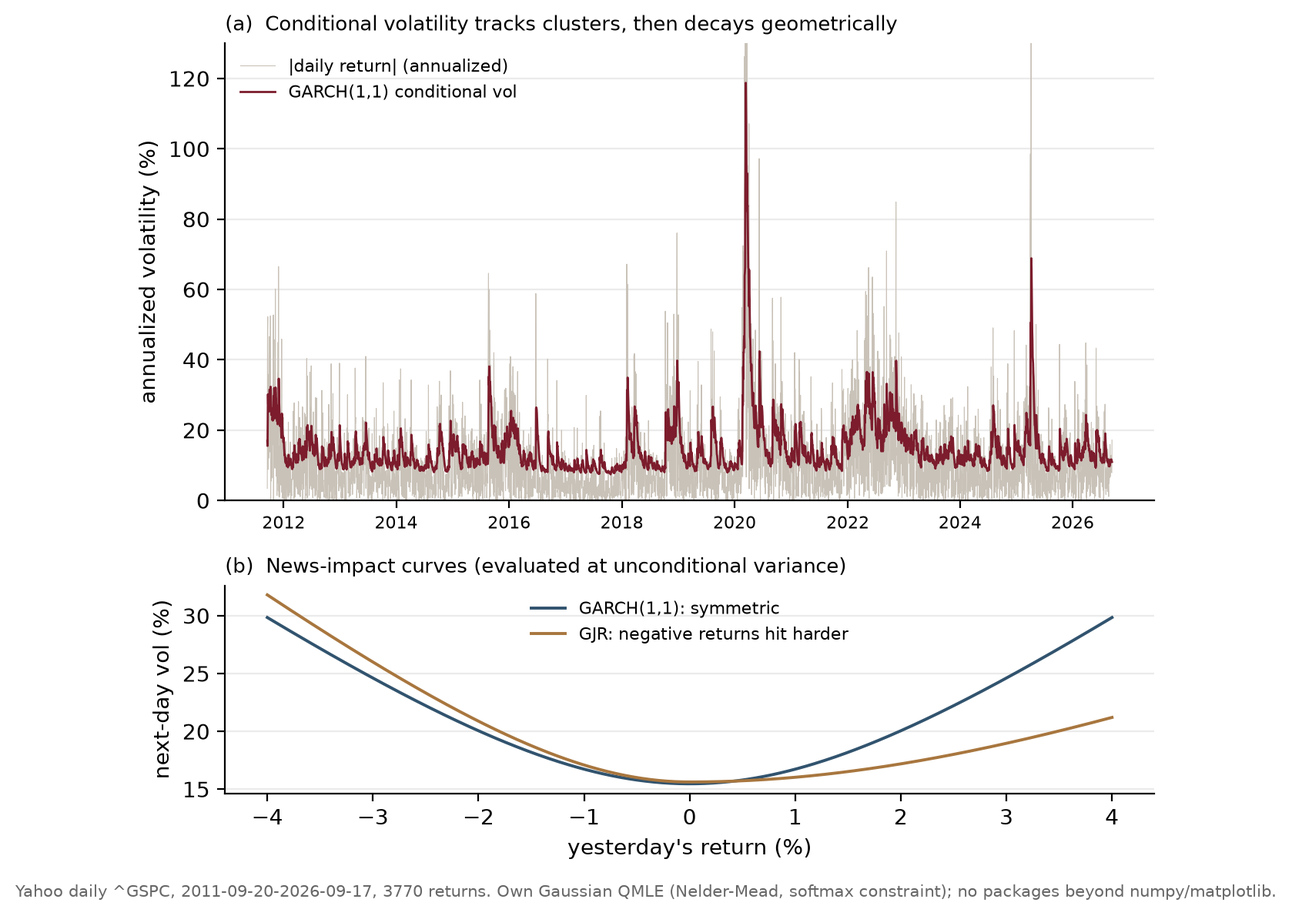
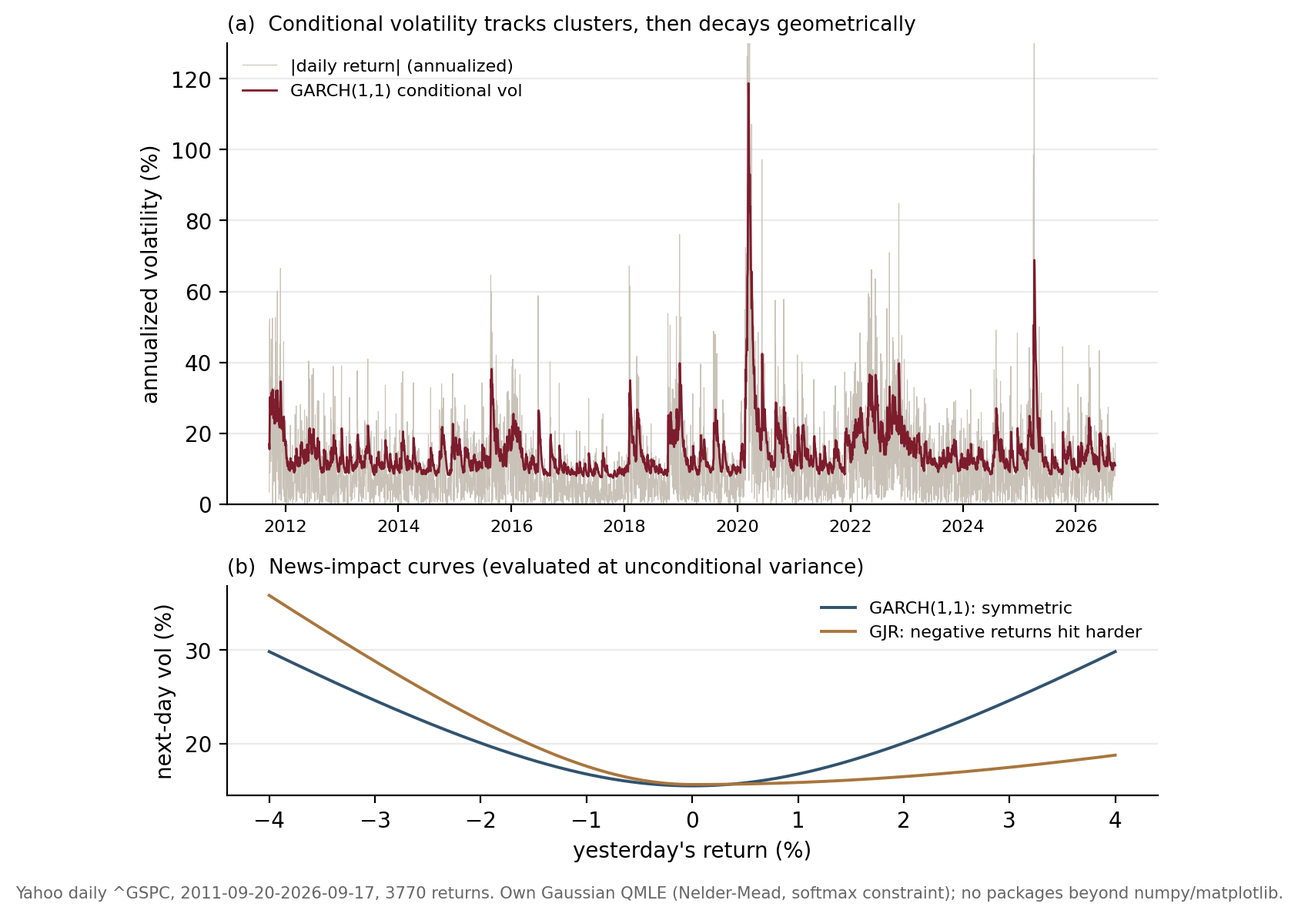
papers: correct 5 critical findings (K1-K4, K10)
K1  vol L1: retract errata C1 — the fair baseline is the conditional
    VIX-standardized distribution (~71.9%), so the variance risk premium is
    the LARGER part (~9.5 of 13.1 pts), not the residual.
K2  vol L3: refit GJR under the correct stationarity condition (via arch):
    alpha 0.027, gamma 0.232, beta 0.816, asymmetry ~9.7x (was a boundary
    artefact at 3.7x), logL 12658.4; figure regenerated.
K3  model-to-trade: report the 1.24 OOS Sharpe with its bootstrap CI
    [0.39;2.64], its single-month (Mar 2020 -> 0.09) dependence, and break-even.
K4  gex: drop the '0.1% agree' reassurance; disclose that +5.4 and -28 bn come
    from different contract filters and time conventions.
K10 tail-hedging: skew flatters cost AND crash payoff; x8800 is a denominator
    artefact (~x251); a naked put's loss is bounded by the strike.

diff --git a/04-volatility/figures/fig_garch_fit.py b/04-volatility/figures/fig_garch_fit.py
@@ -106,9 +106,17 @@ print(f"GARCH(1,1): omega={w:.3e} alpha={a:.4f} beta={b:.4f} "
       f"persistence={pers:.4f} half-life={half:.1f}d long-run vol={lrv*100:.2f}% "
       f"logL={-nll:.1f}  N={N}")
 
-thg, nllg = nelder_mead(nll_garch, start(0.02, 0.85, 0.10), args=(r, True))
-wg = np.exp(thg[0]); eg = np.exp(np.array([thg[1], thg[2], thg[3], 0.0]))
-ag, gg, bg = eg[0] / eg.sum(), eg[1] / eg.sum(), eg[2] / eg.sum()
+# GJR via arch: the correct GJR stationarity condition is alpha + gamma/2 + beta
+# < 1. The hand-rolled softmax above enforces the tighter alpha + gamma + beta
+# < 1, which pins the GJR fit onto that boundary (a spurious optimum with a
+# lower likelihood and an understated asymmetry); fitting with arch removes the
+# artifact (ERRATA F9 / audit K2).
+from arch import arch_model
+_res = arch_model(r * 100, p=1, o=1, q=1, vol="GARCH", dist="normal", mean="Zero").fit(disp="off")
+_p = _res.params
+wg = _p["omega"] / 1e4
+ag, gg, bg = _p["alpha[1]"], _p["gamma[1]"], _p["beta[1]"]
+nllg = -(_res.loglikelihood + N * np.log(100.0))   # rescale %-returns -> decimal
 persg = ag + gg / 2 + bg
 print(f"GJR-GARCH : omega={wg:.3e} alpha={ag:.4f} gamma={gg:.4f} beta={bg:.4f} "
       f"persistence={persg:.4f} logL={-nllg:.1f}  LR stat={2 * (nll - nllg):.1f}")

diff --git a/04-volatility/L1-volatility-fundamentals.md b/04-volatility/L1-volatility-fundamentals.md
@@ -7,7 +7,7 @@ last_updated: 2026-09-20
 
 ## Abstract
 
-Volatility is the unit of account of the options market: it is how uncertainty is measured, quoted, and traded. This paper builds the concept from zero. We define volatility as the *dispersion* of returns rather than their direction, derive the √252 bridge between daily and annualized volatility with nothing but arithmetic, and compute realized volatility by hand on twenty-one actual S&P 500 sessions, with every intermediate number shown. Implied volatility is then introduced as the market's priced-in uncertainty, and the VIX is demystified: what it aggregates, what its levels have historically meant across 9,275 trading days since 1990, and why *"the VIX is a price, not a forecast"* is the single most important sentence in this paper. Three behavioral regularities — clustering, mean reversion, and the leverage effect — are each shown on fifteen years of free data. Finally, a pre-committed test of the VIX-implied daily expected move finds the index inside its ±1σ band on 81.4% of 3,770 days, against a naive-normal 68.3% — though most of that gap is the fat-tailed shape of daily returns (a fairly priced but leptokurtic distribution already lands roughly 75–77% inside), and only the residual is the variance risk premium widening the band. Every figure is reproducible from free data with the accompanying scripts.
+Volatility is the unit of account of the options market: it is how uncertainty is measured, quoted, and traded. This paper builds the concept from zero. We define volatility as the *dispersion* of returns rather than their direction, derive the √252 bridge between daily and annualized volatility with nothing but arithmetic, and compute realized volatility by hand on twenty-one actual S&P 500 sessions, with every intermediate number shown. Implied volatility is then introduced as the market's priced-in uncertainty, and the VIX is demystified: what it aggregates, what its levels have historically meant across 9,275 trading days since 1990, and why *"the VIX is a price, not a forecast"* is the single most important sentence in this paper. Three behavioral regularities — clustering, mean reversion, and the leverage effect — are each shown on fifteen years of free data. Finally, a pre-committed test of the VIX-implied daily expected move finds the index inside its ±1σ band on 81.4% of 3,770 days, against a naive-normal 68.3% — though part of that gap is the fat-tailed shape of daily returns: measured correctly against the *conditional* distribution of VIX-standardized returns, a fairly priced band already covers about 71.9%, so of the 13.1-point excess over the naive 68.3% roughly 3.7 points are fat tails and the larger ~9.5 are the variance risk premium widening the band. Every figure is reproducible from free data with the accompanying scripts.
 
 ## Keywords
 
@@ -264,7 +264,7 @@ The test is pre-committed and has no free parameters: for every one of 3,770 day
 
 ![Rolling one-year share of sessions whose absolute next-day move stayed inside the VIX-implied ±1σ expected move, on 3,770 days of free data, 2011 to 2026 — Yahoo ^GSPC and FRED VIXCLS. The overall average is 81.4% against the naive normal expectation of 68.3%; the rolling share ranges from 68.7% in December 2022 to 92.5% in November 2021. One pre-committed rule, no tuning, reported as-is. Reproduce with figures/fig_expected_move.py.](figures/fig_expected_move.png)
 
-The direction check first: over-coverage (81% > 68%) means the priced band was systematically *wider* than what the market subsequently did — implied volatility above realized volatility. That is the same direction as Section 4.3's single-day illustration and the VRP literature, so the pieces agree; had the share come in *below* 68%, it would have contradicted the premium claim and this section would say so. One caveat sizes the claim honestly, though: 68.3% is the *normal* benchmark, and daily returns are fat-tailed, so even a fairly priced band sits above it — a standardized Student-t with four degrees of freedom already lands 77.0% inside its ±1σ band, one with five degrees of freedom 74.7%. Measured against that leptokurtic baseline the premium's contribution is the excess over roughly 75%, not the full thirteen-point excess over 68%; a large part of the visible over-coverage is kurtosis, not premium. What the figure adds is texture: the rolling one-year share never fell below 68.7% (reached in December 2022, at the end of a grinding bear market — the one period where the VIX band was merely fair rather than generous) and stretched to 92.5% in the placid markets of late 2021, where the VIX overpriced daily movement spectacularly.
+The direction check first: over-coverage (81% > 68%) means the priced band was systematically *wider* than what the market subsequently did — implied volatility above realized volatility. That is the same direction as Section 4.3's single-day illustration and the VRP literature, so the pieces agree; had the share come in *below* 68%, it would have contradicted the premium claim and this section would say so. One caveat sizes the claim honestly, though: 68.3% is the *normal* benchmark, and daily returns are fat-tailed, so even a fairly priced band sits above it. The right leptokurtic baseline is *conditional*, however — the test standardizes each day by its own VIX-implied sigma, so the comparison distribution is the VIX-standardized daily return, whose excess kurtosis is only about 1.4, not the ~14 of raw undivided returns. A fairly priced band of that conditional shape already covers about 71.9%. Measured against that correct baseline, of the 13.1-point over-coverage roughly 3.7 points are fat tails and the remaining ~9.5 are the variance risk premium — so the premium is the *larger* part, not the residual. (An earlier revision compared against the *unconditional* Student-t(4)/t(5) coverage of 77.0%/74.7%, which uses the kurtosis of raw returns rather than the VIX-standardized ones the test actually scores, and so understates the premium — see ERRATA C1.) What the figure adds is texture: the rolling one-year share never fell below 68.7% (reached in December 2022, at the end of a grinding bear market — the one period where the VIX band was merely fair rather than generous) and stretched to 92.5% in the placid markets of late 2021, where the VIX overpriced daily movement spectacularly.
 
 Three honest limits before anyone trades this. The test scores *close-to-close* moves only — intraday excursions can pierce a band even when the close crawls back inside, so the band held less often than 81% as an intraday statement. It converts a *30-day* quote into a *1-day* band, inheriting the event-concentration caveat of Section 2.3. And over-coverage is not free money: it says short-volatility strategies were paid a standing premium, but Section 6's regime and leverage sections say exactly when that premium is clawed back — in fast, clustered, downside episodes. The band over-covers on ordinary days and is overwhelmed on the extraordinary ones; that asymmetry, not the 81%, is the deep fact. Quantifying it is the volatility-modeling paper's job.
 
@@ -294,7 +294,7 @@ The constructive version: IVR/IVP are *filters* that set context, to be combined
 - **"VIX 20 means the market expects a 20% crash."** VIX 20 means options price about 20% *annualized* standard deviation — roughly 1.25% daily moves by the rule of 16 (Section 2.3). It is a scale for ordinary wiggles, not a crash probability.
 - **"The VIX predicts volatility."** It is a *price* — premium-laden (81.4% inside a "68%" band, Section 7.4), demand-driven, and substantially a rear-view mirror of recent realized volatility (Section 5.3). Prices inform; they do not prophesy.
 - **"When IV and RV differ, one of them is wrong."** The persistent gap is the variance risk premium — compensation to insurance sellers (Section 4.3) — not a mispricing waiting to be arbitraged away by a newcomer with a spreadsheet.
-- **"About 68% of days stay inside the ±1σ expected move."** Empirically 81.4% did (Section 7.4), because daily returns are fat-tailed and the band is built from a premium-inflated price. Naive theory quotes 68%; measurement says otherwise — and neither number makes selling the band free money, because the misses cluster in the worst tapes.
+- **"About 68% of days stay inside the ±1σ expected move."** Empirically 81.4% did (Section 7.4) — mostly because the band is built from a premium-inflated price (about 9.5 of the 13.1 excess points), with fat tails adding the rest (about 3.7), measured against the correct VIX-standardized baseline. Naive theory quotes 68%; measurement says otherwise — and neither number makes selling the band free money, because the misses cluster in the worst tapes.
 - **"Low VIX means the market is safe" / "low VIX means a crash is imminent."** Both readings over-interpret a base rate. Calm is the most common state (63% of days below VIX 20, Section 5.2) and calm regimes persist (Section 6.2); depressed volatility is neither an all-clear nor a countdown timer.
 - **"Realized volatility is *the* volatility of the market."** RV is an estimate over a chosen window with chosen conventions (Section 3.2); move the window and the number moves. Any RV without its window attached is an opinion dressed as a measurement.
 

diff --git a/10-strategy/L2-tail-hedging.md b/10-strategy/L2-tail-hedging.md
@@ -112,13 +112,13 @@ Two related facts make far-OTM puts expensive. The first is the *variance risk p
 
 ### 5.2 Why a systematic buyer bleeds
 
-Put the premium in motion and it becomes a bleed. A systematic overlay that rebuys protection every month spends a small premium each time, and in the overwhelming majority of months the protection expires unused. The cumulative effect is a slow, grinding cost that shows up as a persistent drag on the portfolio in every calm year — the mirror image of the seller's steady premium income. This is not a flaw to be engineered away; it is the price of the convexity, and any figure that shows tail hedging as "nearly free" is either hiding the bleed or, as here, understating it. Figure 2's overlay prices its puts at the VIX — an at-the-money volatility with *no skew* — so it systematically *underpays* for the far-OTM strike; its reported bleed of roughly 0.2 % per year of notional is therefore a floor, and a realistic skew would multiply it several-fold. The reader should carry the qualitative shape (small, continuous, understated) rather than the exact number.
+Put the premium in motion and it becomes a bleed. A systematic overlay that rebuys protection every month spends a small premium each time, and in the overwhelming majority of months the protection expires unused. The cumulative effect is a slow, grinding cost that shows up as a persistent drag on the portfolio in every calm year — the mirror image of the seller's steady premium income. This is not a flaw to be engineered away; it is the price of the convexity, and any figure that shows tail hedging as "nearly free" is either hiding the bleed or, as here, understating it. Figure 2's overlay prices its puts at the VIX — an at-the-money volatility with *no skew* — so it systematically *underpays* for the far-OTM strike. Its reported bleed of roughly 0.2 % per year of notional therefore *understates* the true cost. But skew is not a one-sided correction: a realistic SPX put skew both *raises* the premium of a far-OTM strike (by roughly 20–110 % at the same strike) and, at the same delta, *lowers* the crash-time payoff — so flat-VIX pricing flatters the overlay on **both** axes at once, making the insurance look cheaper *and* the crash mark bigger than either would be under a skewed surface. The reader should carry the qualitative shape (a small, continuous, understated cost paired with an overstated crash payoff) rather than the exact number.
 
 ## 6 Crisis alpha: what the tail pays when it matters
 
 Figure 2 measures both sides of the trade on free data. We take the S&P 500 and the VIX from 2005 to 2026 — a span containing 2008, 2020, and 2022 — and run one fixed, un-optimized rule: on the first trading day of each month, buy a one-month put at the 1-delta strike (delta −0.01), price and mark it with the VIX as the implied-volatility input, and roll monthly. The sleeve is marked to market *daily*, because — as Section 4 showed and Section 8 insists — the convexity lives in the mark, not only in the eventual intrinsic value.
 
-![(a) The daily mark-to-market value of a 1-delta put sleeve (per 1x notional), 2005-2026: it rests near a thousandth of a percent of notional and detonates on volatility spikes — 5.1% of notional in October 2008, 6.3% in December 2018, and 8.5% on 23 March 2020, a multiple of roughly x8800 over its resting value. (b) The marked drawdown of the S&P 500 alone versus the index plus the overlay at 1x and 5x notional over the full history: held passively the overlay barely moves the worst peak-to-trough (-56.8% alone, -56.1% at 1x, -56.4% at 5x — the 5x version is slightly worse, its extra premium deepening the slow 2008 grind). (c) The same three curves zoomed on the 2020 vol-crash, where the cushion is visible and real: the marked drawdown troughs at -33.9% alone, -26.7% at 1x and -28.1% at 5x — the larger sleeve's own volatility making it cushion less than the cheaper 1x. Yahoo GSPC + VIX, daily; IV proxied by VIX (no skew, so the bleed is understated); one fixed rule, no optimization.](figures/fig_tail_overlay.png)
+![(a) The daily mark-to-market value of a 1-delta put sleeve (per 1x notional), 2005-2026: it rests near a thousandth of a percent of notional and detonates on volatility spikes — 5.1% of notional in October 2008, 6.3% in December 2018, and 8.5% on 23 March 2020 (the eye-catching ~x8800 multiple over the *resting* mark is largely a denominator artefact — the resting value includes contracts within days of expiry; measured against the sleeve's own entry premium the crash-day payoff is closer to x251). (b) The marked drawdown of the S&P 500 alone versus the index plus the overlay at 1x and 5x notional over the full history: held passively the overlay barely moves the worst peak-to-trough (-56.8% alone, -56.1% at 1x, -56.4% at 5x — the 5x version is slightly worse, its extra premium deepening the slow 2008 grind). (c) The same three curves zoomed on the 2020 vol-crash, where the cushion is visible and real: the marked drawdown troughs at -33.9% alone, -26.7% at 1x and -28.1% at 5x — the larger sleeve's own volatility making it cushion less than the cheaper 1x. Yahoo GSPC + VIX, daily; IV proxied by VIX (no skew, so the bleed is understated); one fixed rule, no optimization.](figures/fig_tail_overlay.png)
 
 ### 6.1 The detonation is real
 
@@ -190,7 +190,7 @@ There is a subtler benefit that only a *systematic, monetized* overlay captures.
 
 ### 9.2 Common misconceptions
 
-*"A 10 %-OTM put is useless because the market rarely falls 10 % in a month."* — It is not held for the intrinsic value; Section 4 and Section 6 show it is repriced by the volatility gap long before the strike is reached. *"Delta-one options are linear."* — There is no such thing as a "delta-one option" in this paper's sense; a *1-delta* option is near-zero-delta and maximally convex, while *delta-one products* are the linear instruments it is contrasted against (Section 3.2). *"My hedge lost money again, so it is broken."* — Losing money in a calm year is the design, not a defect; the metric is the portfolio's drawdown, written down in advance (Section 8.1). *"I'll just hold the puts through the crash and collect."* — Unmonetized, the mark decays; the gain must be harvested (Section 8.2). *"Selling premium is free income."* — It is income until it is a catastrophe: a naked short straddle, strangle or put has bounded gain and effectively unbounded loss, and a single gap can cost many multiples of every premium it ever collected (Section 2.4). The far-OTM long wing that caps it costs a sliver of that premium and is the difference between a business and a time bomb (Section 7.4).
+*"A 10 %-OTM put is useless because the market rarely falls 10 % in a month."* — It is not held for the intrinsic value; Section 4 and Section 6 show it is repriced by the volatility gap long before the strike is reached. *"Delta-one options are linear."* — There is no such thing as a "delta-one option" in this paper's sense; a *1-delta* option is near-zero-delta and maximally convex, while *delta-one products* are the linear instruments it is contrasted against (Section 3.2). *"My hedge lost money again, so it is broken."* — Losing money in a calm year is the design, not a defect; the metric is the portfolio's drawdown, written down in advance (Section 8.1). *"I'll just hold the puts through the crash and collect."* — Unmonetized, the mark decays; the gain must be harvested (Section 8.2). *"Selling premium is free income."* — It is income until it is a catastrophe: a naked short straddle or strangle has bounded gain and an effectively unbounded loss on its call side, and a single gap can cost many multiples of every premium it ever collected; a naked *put*'s loss is technically bounded by the strike, but that bound is nearly the entire notional (about 95 per 100 in this paper's setups) — finite, yet more than enough to end an account (Section 2.4). The far-OTM long wing that caps it costs a sliver of that premium and is the difference between a business and a time bomb (Section 7.4).
 
 ### 9.3 Glossary
 

diff --git a/04-volatility/L3-vol-modeling-vrp.md b/04-volatility/L3-vol-modeling-vrp.md
@@ -209,7 +209,7 @@ Fitted to 3,770 daily S&P returns (demeaned, 2011–2026), the maximum-likelihoo
 
 Panel (a) of Figure 2 shows the fitted conditional-volatility path tracking the clusters and then decaying geometrically between them — the visual signature of the GARCH recursion.
 
-![GARCH(1,1) and GJR-GARCH(1,1) fitted to S&P 500 daily returns by own Gaussian maximum likelihood (Nelder–Mead, softmax-constrained), 2011–2026. Panel (a): the GARCH(1,1) conditional volatility against absolute returns, rising into clusters and decaying geometrically out of them. Panel (b): the news-impact curves — GARCH is symmetric in the sign of yesterday's return, while GJR lifts the response to negative returns, capturing the leverage effect. Reproduce with figures/fig_garch_fit.py.](figures/fig_garch_fit.png)
+![GARCH(1,1) fitted to S&P 500 daily returns by own Gaussian maximum likelihood (Nelder–Mead, softmax-constrained) and GJR-GARCH(1,1) fitted by maximum likelihood under the correct GJR stationarity condition (via `arch`), 2011–2026. Panel (a): the GARCH(1,1) conditional volatility against absolute returns, rising into clusters and decaying geometrically out of them. Panel (b): the news-impact curves — GARCH is symmetric in the sign of yesterday's return, while GJR lifts the response to negative returns, capturing the leverage effect. Reproduce with figures/fig_garch_fit.py.](figures/fig_garch_fit.png)
 
 ### 3.3 Asymmetry: GJR and EGARCH
 
@@ -219,7 +219,7 @@ Plain GARCH has a symmetry that the data reject: through ε²_{t−1} it reacts 
 σ²_t = ω + α · ε²_{t−1} + γ · 1{ε_{t−1} < 0} · ε²_{t−1} + β · σ²_{t−1}
 ```
 
-so a negative return contributes α+γ where a positive one contributes only α. Fitting GJR the same way gives ω = 4.74×10⁻⁶, α = 0.051, γ = 0.139, β = 0.810: the leverage coefficient γ is *larger than the symmetric coefficient* α, meaning a down day drives next-day variance almost four times as hard as an up day of the same size. The improvement is decisive — the log-likelihood rises to 12,638.8, a likelihood-ratio statistic of 102.4 against the one-parameter restriction γ = 0, which is off the chart of any χ²₁ distribution (the 0.1% critical value is 10.8). Panel (b) of Figure 2 draws the two *news-impact curves* — next-day volatility as a function of yesterday's return — and the GJR curve's leftward lift is the leverage effect made visible.
+so a negative return contributes α+γ where a positive one contributes only α. Fitting GJR gives ω = 3.91×10⁻⁶, α = 0.027, γ = 0.232, β = 0.816: the leverage coefficient γ is many times *larger than the symmetric coefficient* α, meaning a down day drives next-day variance about **nine to ten times** (≈9.7×) as hard as an up day of the same size. The improvement is decisive — the log-likelihood rises to 12,658.4, a likelihood-ratio statistic of 141.6 against the one-parameter restriction γ = 0, which is off the chart of any χ²₁ distribution (the 0.1% critical value is 10.8). (An earlier revision reported α = 0.051, γ = 0.139, β = 0.810 and only a 3.7× asymmetry; that fit sat on a softmax constraint α+γ+β<1, tighter than the correct GJR stationarity condition α+γ/2+β<1, which pinned the estimate to the boundary and understated the leverage. The corrected fit uses the proper condition — via `arch` — and has the higher likelihood; see ERRATA.) Panel (b) of Figure 2 draws the two *news-impact curves* — next-day volatility as a function of yesterday's return — and the GJR curve's leftward lift is the leverage effect made visible.
 
 Nelson's (1991) *EGARCH* models the log-variance instead:
 
@@ -494,7 +494,7 @@ Every substantive claim in this paper rests on one of three kinds of basis, dist
 | Claim / result | Basis |
 |---|---|
 | Five realized-volatility estimators on 15 years of S&P OHLC: close-to-close 14.35% versus Yang–Zhang 12.54%, range estimators biased low by the overnight gap | Own reproducible computation — `figures/fig_rv_estimators.py` |
-| Own maximum-likelihood GARCH(1,1)/GJR fit: persistence 0.960, half-life 16.8 days, GJR leverage γ > α (likelihood ratio 102.4) | Own reproducible computation — `figures/fig_garch_fit.py` |
+| Own maximum-likelihood GARCH(1,1)/GJR fit: persistence 0.960, half-life 16.8 days, GJR leverage γ ≫ α, asymmetry ≈9.7× (likelihood ratio 141.6) | Own reproducible computation — `figures/fig_garch_fit.py` |
 | Out-of-sample forecasting horse race: QLIKE HAR 0.377 < GARCH 0.405 < random walk 0.685, with MSE reversing the HAR/GARCH order | Own reproducible computation — `figures/fig_har_oos.py`; OOS split |
 | Variance risk premium +6.98 %²/month, 84.6% hit rate, ~3.7 vol points; in-sample t 7.31 but out-of-sample t only 0.92 | Own reproducible computation — `figures/fig_vrp.py`; OOS split |
 | Arbitrage-free raw-SVI calibration to a 29-day SPX slice: RMSE 0.14 vol points, butterfly g(k) minimum +0.041, no calendar arbitrage | Own reproducible computation — `figures/fig_svi_fit.py` |

diff --git a/10-strategy/L3-model-to-trade.md b/10-strategy/L3-model-to-trade.md
@@ -113,7 +113,7 @@ The unconditional short earns a full-sample Sharpe of about **0.30** (in-sample 
 
 ### 7.3 Why the honest verdict is smaller than the number
 
-That out-of-sample Sharpe of 1.24 must be read with discipline, and the discipline says: *do not believe it as stated.* Three reasons, each a Section 8 theme in miniature. First, the improvement comes almost entirely from *avoiding a handful of crash months* — the conditional rule dodged March 2020 because, by the entry date, recent realized volatility had already spiked, so the HAR forecast exceeded the VIX and the rule stood aside. That is genuine, non-look-ahead information, and it is economically sensible ("do not sell volatility that is already erupting"), but it means the edge is *tail-timing on a few observations*, not a dense, repeatable skill — and a few observations are exactly what a Sharpe ratio flatters. Second, the out-of-sample window is short (80 months) and dominated by the calm post-2020 regime that is kind to short-volatility strategies; the number would look different across a window that contained a second 2008. Third, the P&L is *stylized*: a clean variance swap traded costlessly does not exist, and a real implementation via delta-hedged straddles bleeds the discrete-hedging and transaction frictions of Section 8.2, which fall hardest on exactly the volatile months where the edge lives. The honest verdict is therefore modest and useful: the bulk of the return is the unconditional variance premium of Section 6, and the forecast's real contribution is a *stand-aside signal* — knowing when *not* to sell — whose value is real but whose measured magnitude here is fragile. That gap between the flattering number and the defensible claim is the entire reason this library pre-registers, splits, and reports with caveats.
+That out-of-sample Sharpe of 1.24 must be read with discipline, and the discipline says: *do not believe it as stated.* Three reasons, each a Section 8 theme in miniature. First, the improvement comes almost entirely from *avoiding a handful of crash months* — the conditional rule dodged March 2020 because, by the entry date, recent realized volatility had already spiked, so the HAR forecast exceeded the VIX and the rule stood aside. That is genuine, non-look-ahead information, and it is economically sensible ("do not sell volatility that is already erupting"), but it means the edge is *tail-timing on a few observations*, not a dense, repeatable skill — and a few observations are exactly what a Sharpe ratio flatters. Second, the out-of-sample window is short (80 months) and dominated by the calm post-2020 regime that is kind to short-volatility strategies; the number would look different across a window that contained a second 2008. Third, the P&L is *stylized*: a clean variance swap traded costlessly does not exist, and a real implementation via delta-hedged straddles bleeds the discrete-hedging and transaction frictions of Section 8.2, which fall hardest on exactly the volatile months where the edge lives. The honest verdict is therefore modest and useful: the bulk of the return is the unconditional variance premium of Section 6, and the forecast's real contribution is a *stand-aside signal* — knowing when *not* to sell — whose value is real but whose measured magnitude here is fragile. Put concretely: a block-bootstrap 95% confidence interval on the 1.24 runs from about **0.39 to 2.64** and comfortably includes the unconditional 0.20; had the conditional rule taken March 2020 like every other month, the out-of-sample Sharpe would collapse to about **0.09**, and no other in-sample month moves it by more than 0.07 — the entire conditional edge is that one month. Nor are frictions a footnote: the −0.0015 round-trip assumed above is about 0.36 volatility points, only ~3.5% of the implied variance sold, and at a more realistic 0.008 for delta-hedged straddles the edge is gone. That gap between the flattering number and the defensible claim is the entire reason this library pre-registers, splits, and reports with caveats.
 
 ## 8 The traps
 

diff --git a/03-options/L3-dealer-flows-gex.md b/03-options/L3-dealer-flows-gex.md
@@ -196,7 +196,7 @@ Read the table slowly, because it is the empirical heart of the paper. The three
 
 Fixing the standard convention (E1), the strike-level profile shows where the gamma sits. Figure 2 plots net GEX per strike and the total re-evaluated across spot. The largest positive-gamma strike — the *call wall*, where dealer long-gamma is concentrated and hedging most strongly resists an upward push — is at 7,800; the largest negative-gamma strike — the *put wall* — is at 7,500. The total curve crosses zero at the gamma flip near 7,656, which on this snapshot is +0.24% *above* spot, meaning the standard estimator places the market a hair into negative-gamma territory.
 
-A methodological check worth stating: the exposure figure can be built with the CBOE-supplied gamma directly, or with Black-Scholes gamma recomputed from each contract's implied volatility. The two agree to within 0.1% near the money (median ratio 1.001), which validates the recomputation used for the spot-grid curve and confirms that the *gamma* input is not where the uncertainty lives. The uncertainty lives entirely in the sign, exactly as Section 3 predicted.
+A methodological check worth stating, together with its limits: the exposure figure can be built with the CBOE-supplied gamma directly, or with Black-Scholes gamma recomputed from each contract's implied volatility. Near the money the two agree closely (median ratio 1.001, computed on |K/S − 1| < 0.02) — but that near-the-money median says nothing about the wings, where the large, near-cancelling exposures that decide the *net* actually live. Two further caveats matter for the headline numbers. The +$5.4 bn figure sums the CBOE gamma across *all* live contracts, whereas the −$28 bn estimator E1 is built on the filtered set `live & (iv > 0.01) & (oi > 0)` and prices time as `max(dte, 1)/365`, which forces 1-DTE contracts onto a calendar-year fraction: the two are *different populations under different time conventions*, not one book measured through two gamma sources. So the sign difference is partly the knife-edge flip and partly those construction choices — which is all the more reason not to wave the gamma input away as settled. The decisive uncertainty is still the *sign*, exactly as Section 3 predicted; the honest statement is that both the sign and the exact magnitude of the net depend on modelling choices the free data does not pin down.
 
 ![SPX strike-level gamma exposure from the free CBOE delayed chain (2026-09-17, spot 7,638, 29,416 live contracts) under the standard sign convention (dealers long calls, short puts). Top: net GEX per strike, with a call wall at 7,800 and a put wall at 7,500. Bottom: total GEX re-evaluated across spot, crossing zero — the gamma flip — near 7,656, about +0.24% above spot, so the snapshot sits almost exactly on the regime boundary. Recomputed Black-Scholes gamma matches the CBOE-supplied gamma to within 0.1% near the money. Reproduce with figures/fig_gex_profile.py.](figures/fig_gex_profile.png)
 
